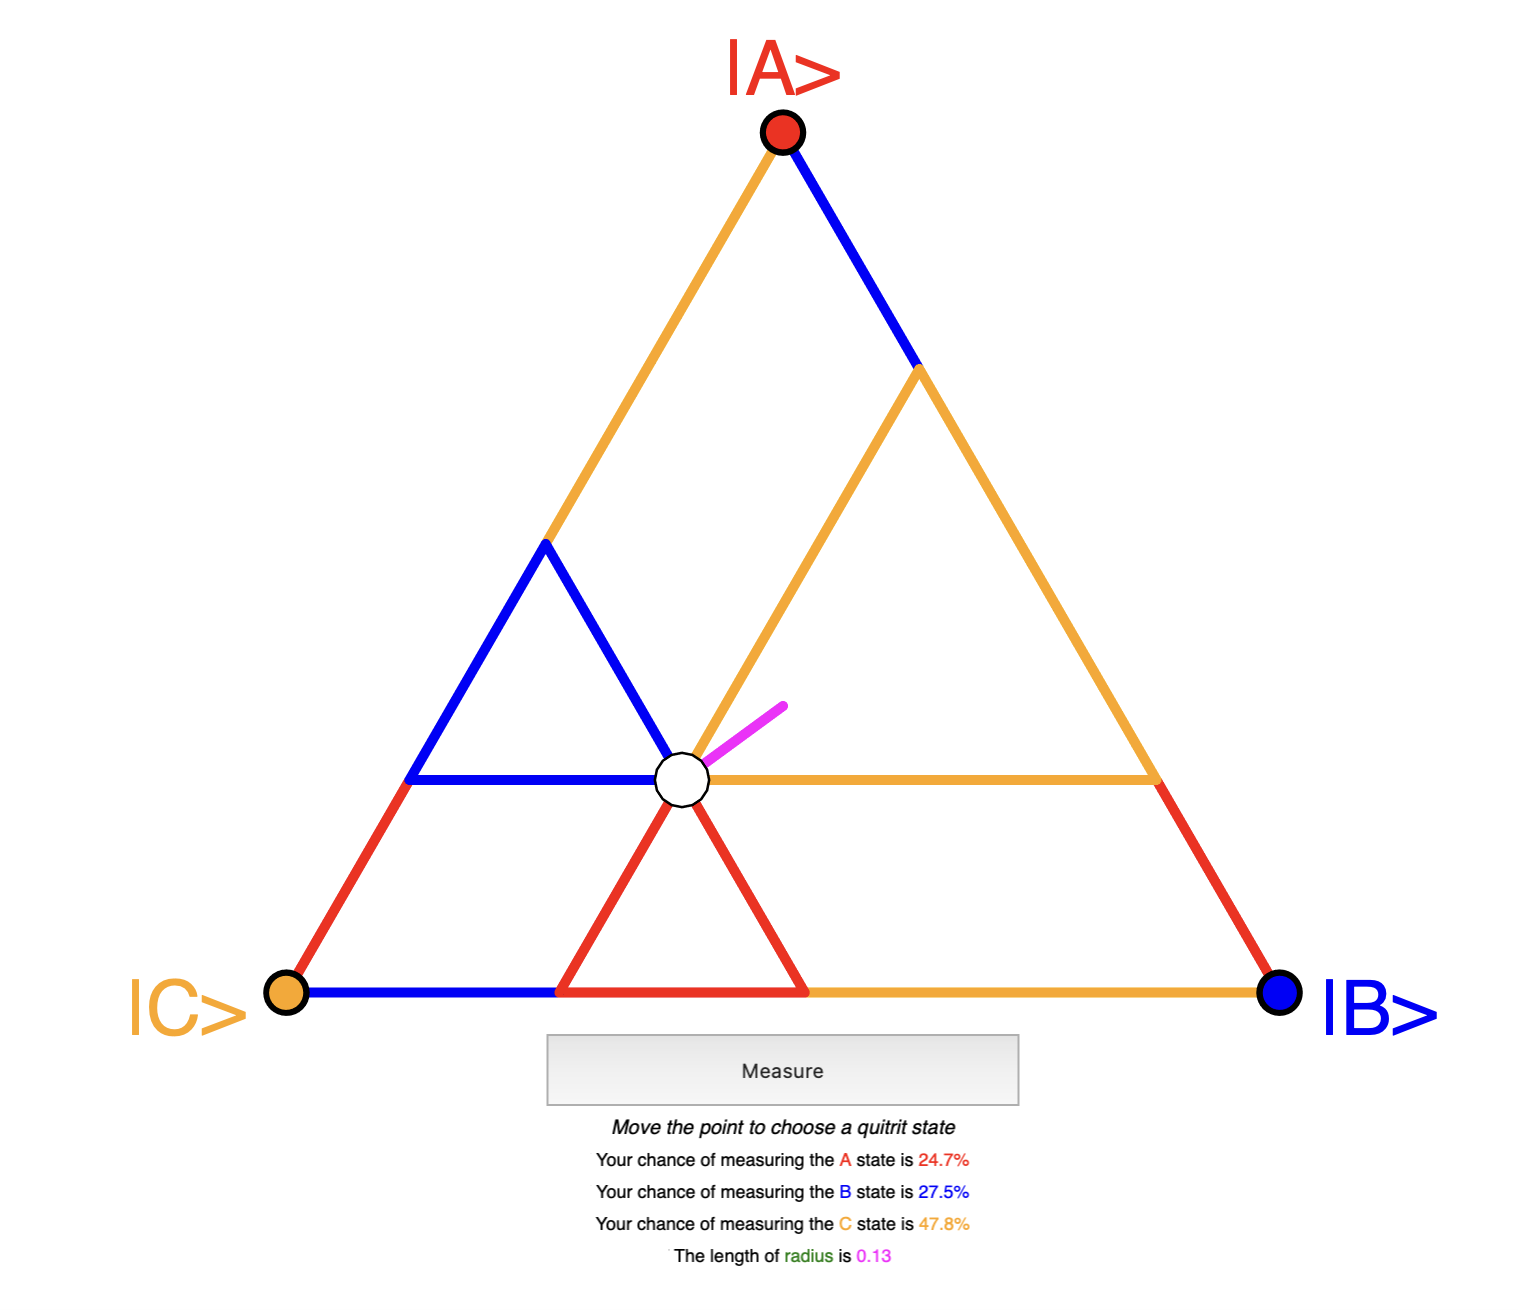
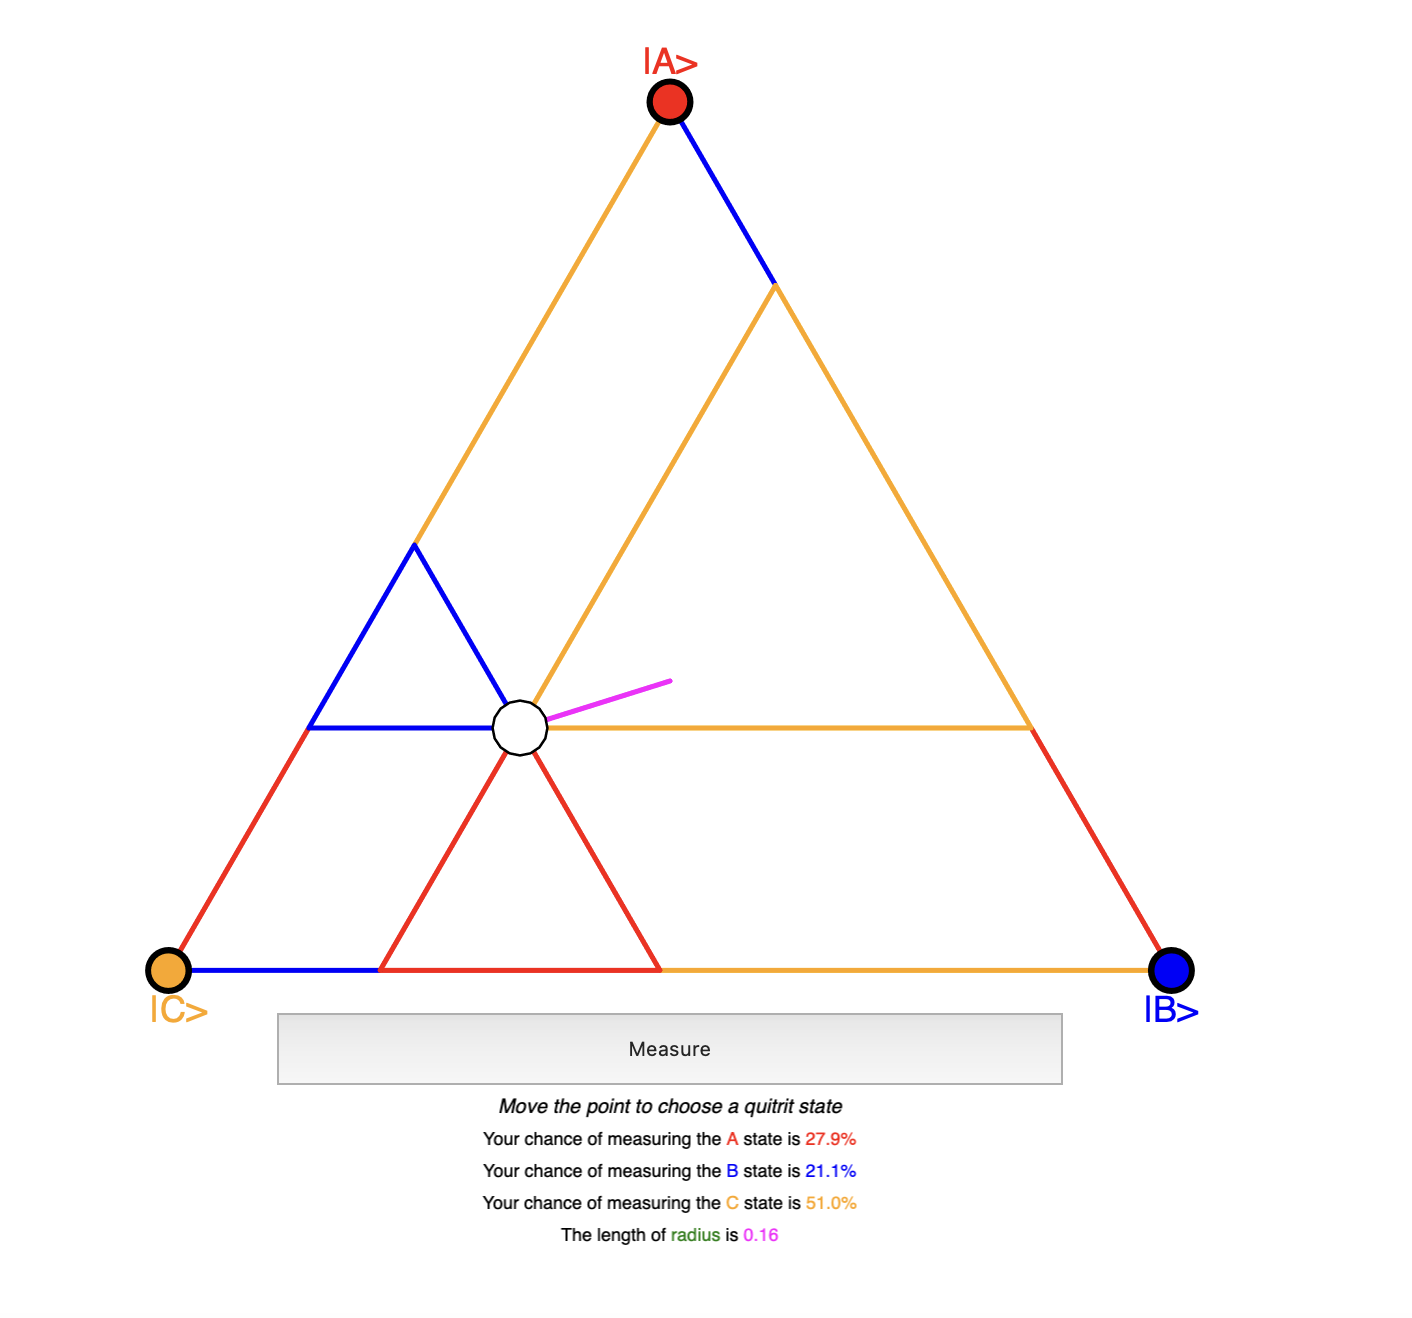
Portfolio update

diff --git a/index.html b/index.html
@@ -4,45 +4,54 @@
 <meta charset="UTF-8">
 <meta name="viewport" content="width=device-width, initial-scale=1.0">
 <title>Yaroslav's Portfolio</title>
-
 <style>
 * {
     margin: 0;
     padding: 0;
     box-sizing: border-box;
 }
-
 body {
     background: #111;
     color: white;
     font-family: Arial, sans-serif;
     min-height: 100vh;
 }
-
 header {
     text-align: center;
-    padding: 60px 20px;
+    padding: 60px 20px 40px;
 }
-
 header h1 {
     font-size: 3rem;
     margin-bottom: 10px;
 }
-
 header p {
     color: #aaa;
     font-size: 1.1rem;
 }
-
-#projects {
+.category {
     width: min(1400px, 95%);
-    margin: auto;
+    margin: 0 auto;
+    padding-bottom: 56px;
+}
+.category-header {
+    margin-bottom: 20px;
+    padding-left: 4px;
+    border-left: 3px solid #444;
+    padding-left: 16px;
+}
+.category-header h2 {
+    font-size: 1.6rem;
+    margin-bottom: 4px;
+}
+.category-header p {
+    color: #888;
+    font-size: 0.95rem;
+}
+.project-grid {
     display: grid;
     grid-template-columns: repeat(auto-fit, minmax(350px, 1fr));
     gap: 24px;
-    padding-bottom: 60px;
 }
-
 .project-card {
     background: #1b1b1b;
     border-radius: 16px;
@@ -51,12 +60,10 @@ header p {
     transition: transform .2s ease, box-shadow .2s ease;
     border: 1px solid #2c2c2c;
 }
-
 .project-card:hover {
     transform: translateY(-6px);
     box-shadow: 0 10px 30px rgba(0,0,0,.4);
 }
-
 .browser-bar {
     background: #2a2a2a;
     padding: 12px;
@@ -64,134 +71,204 @@ header p {
     gap: 8px;
     align-items: center;
 }
-
 .dot {
     width: 12px;
     height: 12px;
     border-radius: 50%;
 }
-
 .dot.red {
     background: #ff5f56;
 }
-
 .dot.yellow {
     background: #ffbd2e;
 }
-
 .dot.green {
     background: #27c93f;
 }
-
 .project-image {
     width: 100%;
     aspect-ratio: 16 / 9;
     object-fit: cover;
     display: block;
 }
-
 .project-content {
     padding: 20px;
 }
-
 .project-content h2 {
     margin-bottom: 10px;
+    font-size: 1.2rem;
 }
-
 .project-content p {
     color: #bbb;
     line-height: 1.5;
     margin-bottom: 16px;
 }
-
 .tags {
     display: flex;
     flex-wrap: wrap;
     gap: 8px;
 }
-
 .tag {
     background: #2a2a2a;
     padding: 6px 10px;
     border-radius: 999px;
     font-size: 0.85rem;
 }
+
+/* Coming soon placeholder cards */
+.project-card.placeholder {
+    cursor: default;
+    opacity: 0.55;
+}
+.project-card.placeholder:hover {
+    transform: none;
+    box-shadow: none;
+}
+.placeholder-image {
+    width: 100%;
+    aspect-ratio: 16 / 9;
+    display: flex;
+    align-items: center;
+    justify-content: center;
+    background: repeating-linear-gradient(
+        45deg,
+        #1f1f1f,
+        #1f1f1f 10px,
+        #232323 10px,
+        #232323 20px
+    );
+    color: #555;
+    font-size: 0.9rem;
+    letter-spacing: 0.05em;
+    text-transform: uppercase;
+}
 </style>
 </head>
 <body>
-
 <header>
     <h1>Yaroslav's Portfolio</h1>
-    <p>Projects built with JavaScript, Node.js, Socket.IO, Three.js and more.</p>
+    <p>Projects built with JavaScript, Node.js, Socket.IO, Three.js, C++/OpenGL and more.</p>
 </header>
-
-<section id="projects"></section>
-
+<main id="categories"></main>
 <script>
-const projects = [
+const categories = [
     {
-        title: "Even Quad",
-        description: "Real-time multiplayer pattern recognition game.",
-        image: "images/EvenQuads.png",
-        url: "https://even-quad.onrender.com",
-        tags: ["JavaScript", "Node.js", "Socket.IO"]
+        title: "Qudit State Space Visualization",
+        description: "Geometric tools for exploring the state spaces of higher-dimensional quantum systems.",
+        projects: [
+            {
+                title: "2-Qubit Visualization",
+                description: "Interactive geometry visualization tool.",
+                image: "images/3DQudit.png",
+                url: "https://quantum.bard.edu/yv/3DVisualization",
+                tags: ["Three.js", "Geometry", "WebGL"]
+            },
+            {
+                title: "Qutrit Visualization",
+                description: "Interactive geometry visualization tool.",
+                image: "images/2DQudit.png",
+                url: "https://quantum.bard.edu/yv/2DVisualization",
+                tags: ["Three.js", "Geometry", "WebGL"]
+            }
+        ]
     },
     {
-        title: "2-Qubit visualization",
-        description: "Interactive geometry visualization tool.",
-        image: "images/3DQudit.png",
-        url: "https://quantum.bard.edu/yv/3DVisualization",
-        tags: ["Three.js", "Geometry", "WebGL"]
+        title: "Combinatorics & Even Quad Games",
+        description: "Pattern-matching and combinatorial games, online and multiplayer.",
+        projects: [
+            {
+                title: "Even Quad",
+                description: "Real-time multiplayer pattern recognition game.",
+                image: "images/EvenQuads.png",
+                url: "https://even-quad.onrender.com",
+                tags: ["JavaScript", "Node.js", "Socket.IO", "Combinatorics"]
+            },
+            {
+                title: "Quad visualizer",
+                description: "Making complex mathematical structure of even quads intuitive",
+                image: "images/QuadVisualizer.png",
+                url: "https://increddwight.github.io/card-game-bsri-2026/even-quads-visualizer/",
+                tags: ["Three.js", "Affine Geometry", "Combinatorics"],
+            },
+            {
+                title: "Projective Set",
+                description: "Making complex mathematical structure of projective set intuitive",
+                image: "images/ProjectiveSet.png",
+                url: "https://increddwight.github.io/card-game-bsri-2026/projective-set/",
+                tags: ["Three.js", "Projective Geometry", "Combinatorics"],
+            }
+        ]
     },
     {
-        title: "Qutrit visualization",
-        description: "Interactive geometry visualization tool.",
-        image: "images/2DQudit.png",
-        url: "https://quantum.bard.edu/yv/2DVisualization",
-        tags: ["Three.js", "Geometry", "WebGL"]
+        title: "Toric Code & Quantum Error Correction",
+        description: "Visualizations exploring topological qubits and error-correcting codes.",
+        projects: [
+            {
+                title: "Toric Code Visualization",
+                description: "Interactive visualization of the toric code, built in C++ with OpenGL.",
+                image: "images/ToricCode.png",
+                url: "",
+                tags: ["C++", "OpenGL"],
+                comingSoon: true
+            }
+        ]
     }
 ];
 
 // ---------- RENDER ----------
+const root = document.getElementById("categories");
 
-const container = document.getElementById("projects");
+categories.forEach(category => {
+    const section = document.createElement("section");
+    section.className = "category";
 
-projects.forEach(project => {
-    const card = document.createElement("div");
-    card.className = "project-card";
-
-    card.innerHTML = `
-        <div class="browser-bar">
-            <div class="dot red"></div>
-            <div class="dot yellow"></div>
-            <div class="dot green"></div>
-        </div>
-
-        <img
-            class="project-image"
-            src="${project.image}"
-            alt="${project.title}"
-        >
-
-        <div class="project-content">
-            <h2>${project.title}</h2>
-            <p>${project.description}</p>
-
-            <div class="tags">
-                ${project.tags.map(tag =>
-                    `<span class="tag">${tag}</span>`
-                ).join("")}
-            </div>
-        </div>
+    const headerEl = document.createElement("div");
+    headerEl.className = "category-header";
+    headerEl.innerHTML = `
+        <h2>${category.title}</h2>
+        <p>${category.description}</p>
     `;
+    section.appendChild(headerEl);
 
-    card.addEventListener("click", () => {
-        window.open(project.url, "_blank");
+    const grid = document.createElement("div");
+    grid.className = "project-grid";
+
+    category.projects.forEach(project => {
+        const card = document.createElement("div");
+        card.className = "project-card" + (project.comingSoon ? " placeholder" : "");
+
+        const imageHTML = project.comingSoon
+            ? `<div class="placeholder-image">Coming soon</div>`
+            : `<img class="project-image" src="${project.image}" alt="${project.title}">`;
+
+        card.innerHTML = `
+            <div class="browser-bar">
+                <div class="dot red"></div>
+                <div class="dot yellow"></div>
+                <div class="dot green"></div>
+            </div>
+            ${imageHTML}
+            <div class="project-content">
+                <h2>${project.title}</h2>
+                <p>${project.description}</p>
+                <div class="tags">
+                    ${project.tags.map(tag => `<span class="tag">${tag}</span>`).join("")}
+                </div>
+            </div>
+        `;
+
+        if (!project.comingSoon && project.url) {
+            card.addEventListener("click", () => {
+                window.open(project.url, "_blank");
+            });
+        }
+
+        grid.appendChild(card);
     });
 
-    container.appendChild(card);
+    section.appendChild(grid);
+    root.appendChild(section);
 });
 </script>
-
 </body>
 </html>